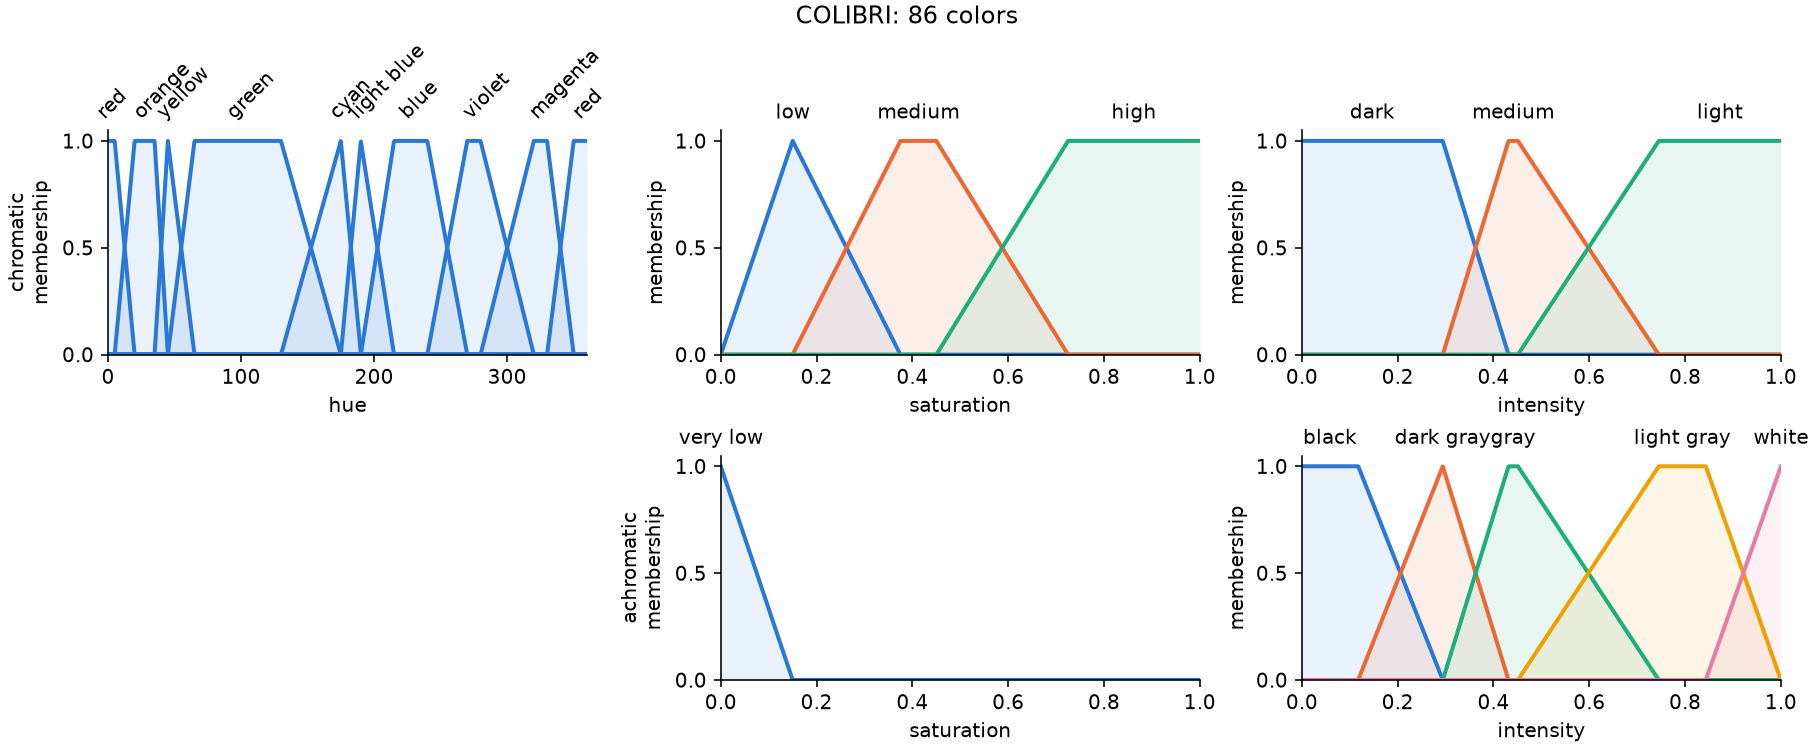
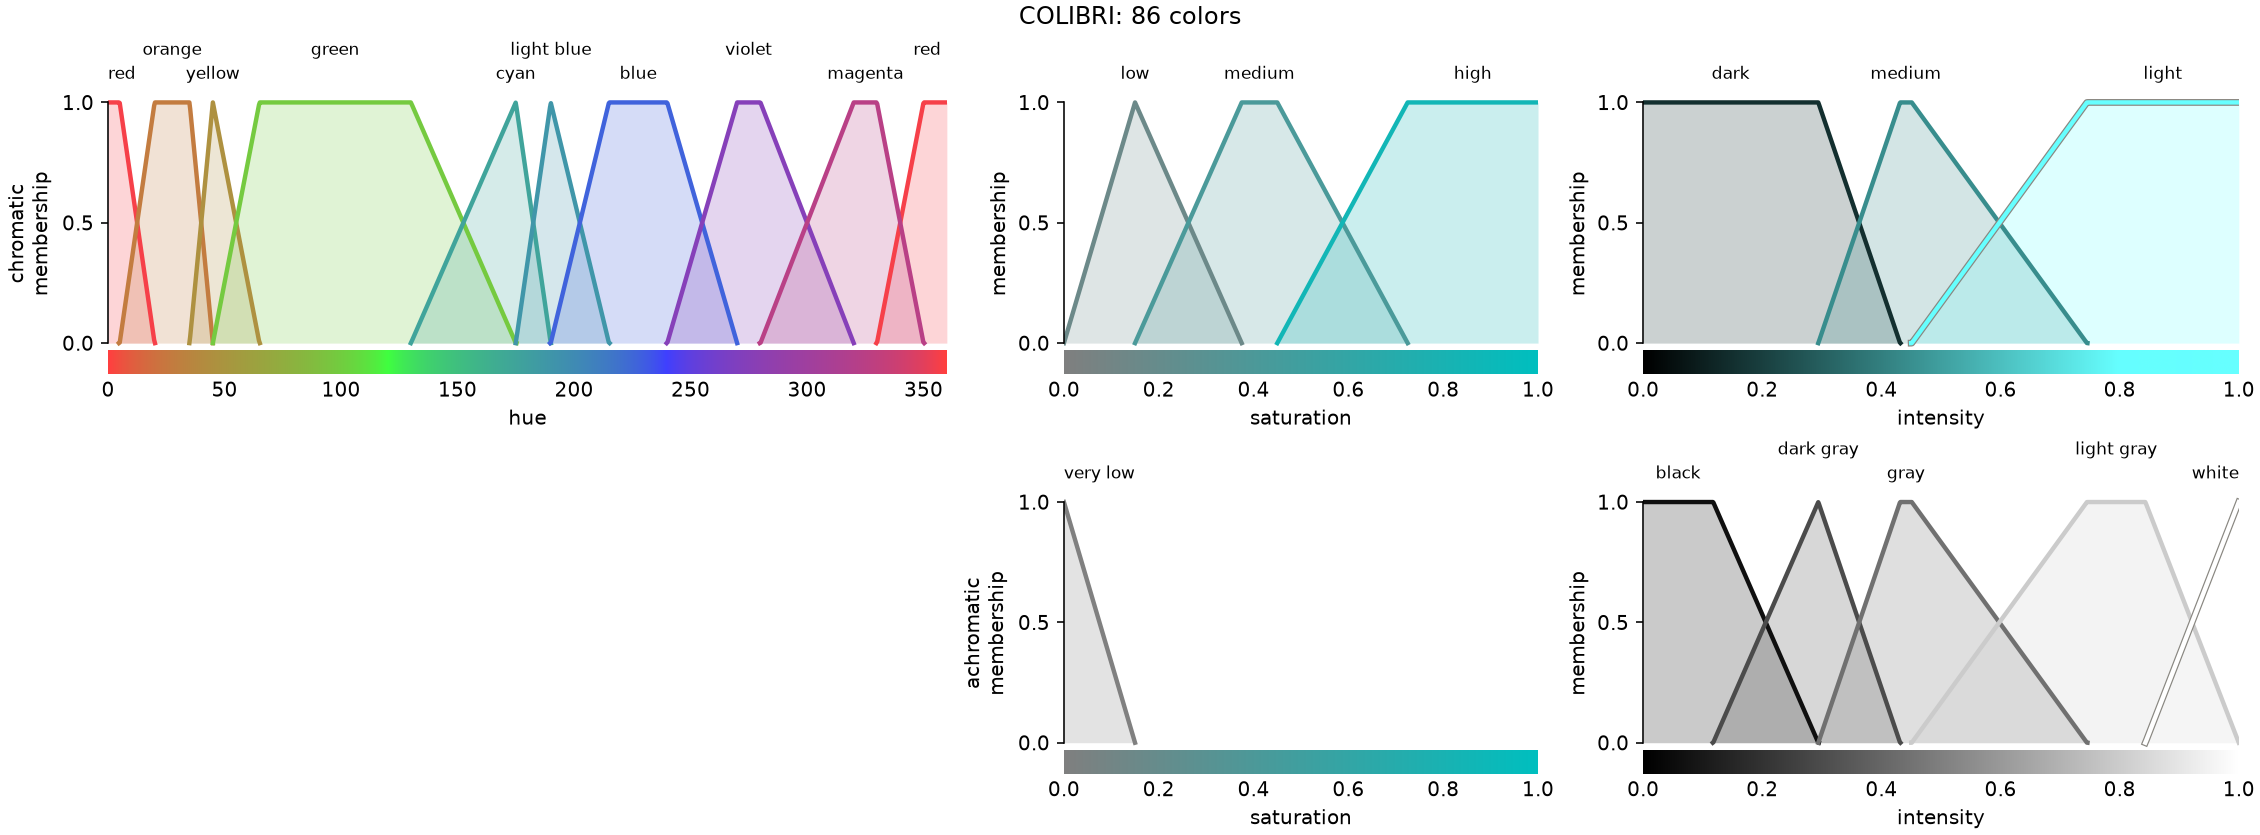
Draw every term in its own color and the pie as a ring
- plot paints every term in the color it stands for, over a band of the
  channel, and writes crowded term names on two rows.
- pie is a ring with even gaps and a thin outline on every slice; a
  legend lists every share, the largest first.

diff --git a/src/fuzcolor/features/plots.py b/src/fuzcolor/features/plots.py
@@ -15,14 +15,18 @@ import fuzlog as fz
 import numpy as np
 from numpy.typing import ArrayLike
 
-from fuzcolor.model import Model
+from fuzcolor.math import Array
+from fuzcolor.model import Family, Model, _centers
 
 if TYPE_CHECKING:
     from matplotlib.axes import Axes
     from matplotlib.figure import Figure
 
-_OTHER = (0.76, 0.76, 0.72)  # the slice of the colors too small to show
+_OTHER = (0.86, 0.86, 0.84)  # the slice of the colors too small to show
 _EDGE = "#898781"
+_PALE = 0.8  # a color brighter than this gets an outline to stand out on white
+_RING = 0.42  # the width of the ring of a pie
+_BAND = (-0.13, -0.03)  # where the band of a channel runs, under its curves
 
 
 def plot(model: Model) -> Figure:
@@ -31,28 +35,131 @@ def plot(model: Model) -> Figure:
     ```python
     fc.plot(COLIBRI)
     ```
+
+    Every term wears the color it stands for, and a band under the axis shows
+    how the channel runs through the colors of the family. A channel with more
+    terms gets a wider column.
     """
     import matplotlib.pyplot as plt
 
     channels = list(model.space.channels)
+    variables = [v for family in model.families for v in family.variables]
+    widths = [
+        2.4 + 0.5 * max((len(v.terms) for v in variables if v.name == c), default=0)
+        for c in channels
+    ]
     figure, axes = plt.subplots(
         len(model.families),
         len(channels),
         squeeze=False,
-        figsize=(4.2 * len(channels), 2.6 * len(model.families)),
+        figsize=(sum(widths), 2.9 * len(model.families)),
+        width_ratios=widths,
         layout="constrained",
     )
     for row, family in zip(axes, model.families, strict=True):
-        described = {variable.name: variable for variable in family.variables}
+        described = _described(family)
         for ax, channel in zip(row, channels, strict=True):
             if channel in described:
-                fz.plot(described[channel], ax)
+                _curves(model, family, described[channel], ax)
             else:
                 ax.set_axis_off()
         shown = next(ax for ax in row if ax.axison)
         shown.set_ylabel(f"{family.name}\nmembership")
     figure.suptitle(f"{model.name}: {len(model.colors)} colors")
     return figure
+
+
+def _described(family: Family) -> dict[str, fz.Variable]:
+    return {variable.name: variable for variable in family.variables}
+
+
+def _curves(model: Model, family: Family, variable: fz.Variable, ax: Axes) -> None:
+    """Draw the terms of one variable of a family, each in its own color."""
+    import matplotlib.patheffects as effects
+
+    low, high = variable.universe
+    x = np.linspace(low, high, 1001)
+    degrees = variable(x)
+    tints = _tints(model, family, variable, _centers(variable))
+    for curve, tint in zip(degrees, tints.tolist(), strict=True):
+        outline = []
+        if _luminance(tint) > _PALE:
+            outline = [
+                effects.Stroke(linewidth=3.4, foreground=_EDGE),
+                effects.Normal(),
+            ]
+        ax.fill_between(x, curve, color=tint, alpha=0.22, linewidth=0)
+        # Only where the term is, so the zeros don't pile up along the bottom.
+        inside = np.convolve(curve > 0, np.ones(3), mode="same") > 0
+        ax.plot(
+            x,
+            np.where(inside, curve, np.nan),
+            color=tint,
+            linewidth=2.2,
+            path_effects=outline,
+        )
+    band = _tints(model, family, variable, np.linspace(low, high, 256))
+    ax.imshow(
+        band[None],
+        extent=(low, high, *_BAND),
+        aspect="auto",
+        interpolation="bilinear",
+    )
+    _names(variable, degrees, ax)
+    ax.set(xlim=(low, high), ylim=(_BAND[0], 1.04), yticks=(0.0, 0.5, 1.0))
+    ax.set(xlabel=variable.name, ylabel="membership")
+    ax.spines[["top", "right", "bottom"]].set_visible(False)
+    ax.spines["left"].set_bounds(0.0, 1.0)
+    ax.tick_params(axis="x", length=0)
+
+
+def _names(variable: fz.Variable, degrees: Array, ax: Axes) -> None:
+    """Write the name of every term over its core, on two rows if they crowd."""
+    low, high = variable.universe
+    places = ((_centers(variable) - low) / (high - low)).tolist()
+    names = list(variable.terms)
+    owner = int(degrees[:, 0].argmax())
+    if variable.periodic and degrees[owner, 0] > 0.5:
+        # The term that owns the seam is named at the far end too.
+        places.append(0.0 if places[owner] > 0.5 else 1.0)
+        names.append(names[owner])
+    order = sorted(range(len(places)), key=places.__getitem__)
+    ranked = [places[i] for i in order]
+    crowded = any(b - a < 0.15 for a, b in itertools.pairwise(ranked))
+    for rank, i in enumerate(order):
+        place = places[i]
+        ax.annotate(
+            names[i],
+            (place, 1.0),
+            xycoords="axes fraction",
+            xytext=(0, 5 + (12 if crowded and rank % 2 else 0)),
+            textcoords="offset points",
+            ha="left" if place < 0.03 else "right" if place > 0.97 else "center",
+            va="bottom",
+            fontsize="small",
+            annotation_clip=False,
+        )
+
+
+def _tints(model: Model, family: Family, variable: fz.Variable, values: Array) -> Array:
+    """The RGB color of values of one variable among the colors of its family.
+
+    The other channels stay at the only term of a variable of the family that
+    has one term, and at the middle of their range otherwise.
+    """
+    channels = list(model.space.channels)
+    point = [(low + high) / 2 for low, high in model.space.channels.values()]
+    for other in family.variables:
+        if len(other.terms) == 1:
+            point[channels.index(other.name)] = float(_centers(other)[0])
+    rows = np.tile(point, (len(values), 1))
+    rows[:, channels.index(variable.name)] = values
+    rgb = model.space.to_rgb(rows)
+    return np.clip(rgb / np.maximum(rgb.max(axis=-1, keepdims=True), 1.0), 0.0, 1.0)
+
+
+def _luminance(rgb: tuple[float, ...] | list[float]) -> float:
+    return math.fsum(w * c for w, c in zip((0.2126, 0.7152, 0.0722), rgb, strict=True))
 
 
 def swatches(model: Model) -> Figure:
@@ -104,13 +211,15 @@ def swatches(model: Model) -> Figure:
 def pie(
     model: Model, weights: ArrayLike, ax: Axes | None = None, *, least: float = 0.02
 ) -> Axes:
-    """Draw a palette as a pie whose slices wear the colors they stand for.
+    """Draw a palette as a ring whose slices wear the colors they stand for.
 
     ```python
     fc.pie(COLIBRI, fc.palette(COLIBRI, image))
     ```
 
-    Colors with a share below `least` are summed into one gray slice.
+    The legend names every slice with its share, the largest first; a slice
+    of 5% or more has its share written on it too. Colors with a share below
+    `least` are summed into one gray slice.
     """
     import matplotlib.pyplot as plt
 
@@ -131,23 +240,56 @@ def pie(
         names.append("other")
         fills.append(_OTHER)
     if ax is None:
-        _, ax = plt.subplots(figsize=(6, 6), layout="constrained")
-    _, _, percents = ax.pie(
+        _, ax = plt.subplots(figsize=(9, 5), layout="constrained")
+    total = math.fsum(sizes)
+    wedges, _ = ax.pie(
         sizes,
-        labels=names,
         colors=fills,
-        autopct="%.0f%%",
-        pctdistance=0.8,
         startangle=90,
         counterclock=False,
-        wedgeprops={"edgecolor": _EDGE, "linewidth": 0.5},
+        wedgeprops={"width": _RING, "edgecolor": _EDGE, "linewidth": 0.6},
     )
-    for percent, fill in zip(percents, fills, strict=True):
-        dark = (
-            math.fsum(
-                w * c for w, c in zip((0.2126, 0.7152, 0.0722), fill, strict=True)
-            )
-            < 0.5
+    for wedge, size, fill in zip(wedges, sizes, fills, strict=True):
+        if size / total < 0.05:
+            continue
+        angle = math.radians((wedge.theta1 + wedge.theta2) / 2)
+        ax.text(
+            0.79 * math.cos(angle),
+            0.79 * math.sin(angle),
+            f"{size / total:.0%}",
+            ha="center",
+            va="center",
+            fontsize="small",
+            fontweight="bold",
+            color="black" if _luminance(fill) > 0.45 else "white",
         )
-        percent.set_color("white" if dark else "black")
+    if len(wedges) > 1:  # the same gap between every two slices, cut over them
+        for wedge in wedges:
+            angle = math.radians(wedge.theta1)
+            ax.plot(
+                [0.98 * (1 - _RING) * math.cos(angle), 1.02 * math.cos(angle)],
+                [0.98 * (1 - _RING) * math.sin(angle), 1.02 * math.sin(angle)],
+                color=ax.get_facecolor(),
+                linewidth=1.8,
+                solid_capstyle="butt",
+            )
+    ax.text(0, 0, model.name, ha="center", va="center")
+    legend = ax.legend(
+        wedges,
+        [
+            f"{size / total:4.0%}  {name}"
+            for size, name in zip(sizes, names, strict=True)
+        ],
+        loc="center left",
+        bbox_to_anchor=(1.0, 0.5),
+        frameon=False,
+        handlelength=1.1,
+        handleheight=1.1,
+        labelspacing=0.5,
+        prop={"family": "monospace", "size": "small"},
+    )
+    for handle in legend.legend_handles:
+        if handle is not None:
+            handle.set(edgecolor=_EDGE, linewidth=0.5)
+    ax.set(aspect="equal")
     return ax

diff --git a/tests/test_features.py b/tests/test_features.py
@@ -109,9 +109,13 @@ def test_pie_merges_the_small_shares():
     weights = np.zeros(86)
     weights[[0, 40, 85]] = 0.5, 0.49, 0.01
     ax = fc.pie(COLIBRI, weights)
-    written = sorted(text.get_text() for text in ax.texts)
+    legend = ax.get_legend()
+    assert legend is not None
+    entries = [text.get_text().strip() for text in legend.get_texts()]
     names = ["red/low/dark", COLIBRI.colors[40], "other"]
-    assert written == sorted([*names, "50%", "49%", "1%"])
+    assert entries == [f"50%  {names[0]}", f"49%  {names[1]}", f"1%  {names[2]}"]
+    written = sorted(text.get_text() for text in ax.texts if text.get_text())
+    assert written == ["49%", "50%", "COLIBRI"]  # a slice under 5% is too thin
     assert ax.patches[0].get_facecolor()[:3] == pytest.approx(COLIBRI.prototypes()[0])
     _, given = plt.subplots()
     assert fc.pie(COLIBRI, weights, given, least=0) is given

diff --git a/docs/reference.md b/docs/reference.md
@@ -52,10 +52,12 @@ over `red`, `green` and `blue`.
 | `table.save(path)`, `Table.load(path)` | a NumPy `.npz` archive |
 | `values`, `source` | the 256 × 256 × 256 positions, the name of the model |
 
-**`plot(model)`** draws the terms of every family and **`swatches(model)`** the
-typical color of every color; both return the Figure.
-**`pie(model, weights, ax=None, *, least=0.02)`** draws a palette and returns
-the Axes; colors with a share below `least` join one gray slice.
+**`plot(model)`** draws the terms of every family, each in the color it stands
+for, over a band of the channel; **`swatches(model)`** draws the typical color
+of every color; both return the Figure.
+**`pie(model, weights, ax=None, *, least=0.02)`** draws a palette as a ring with
+a legend of the shares and returns the Axes; colors with a share below `least`
+join one gray slice.
 
 ## Models
 
